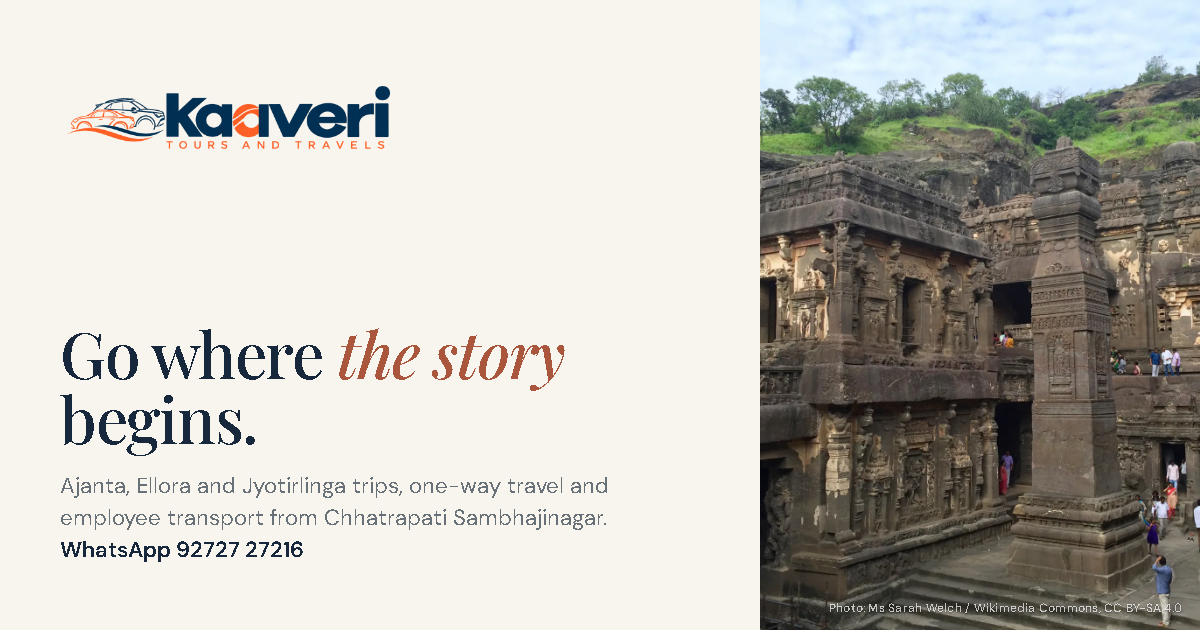
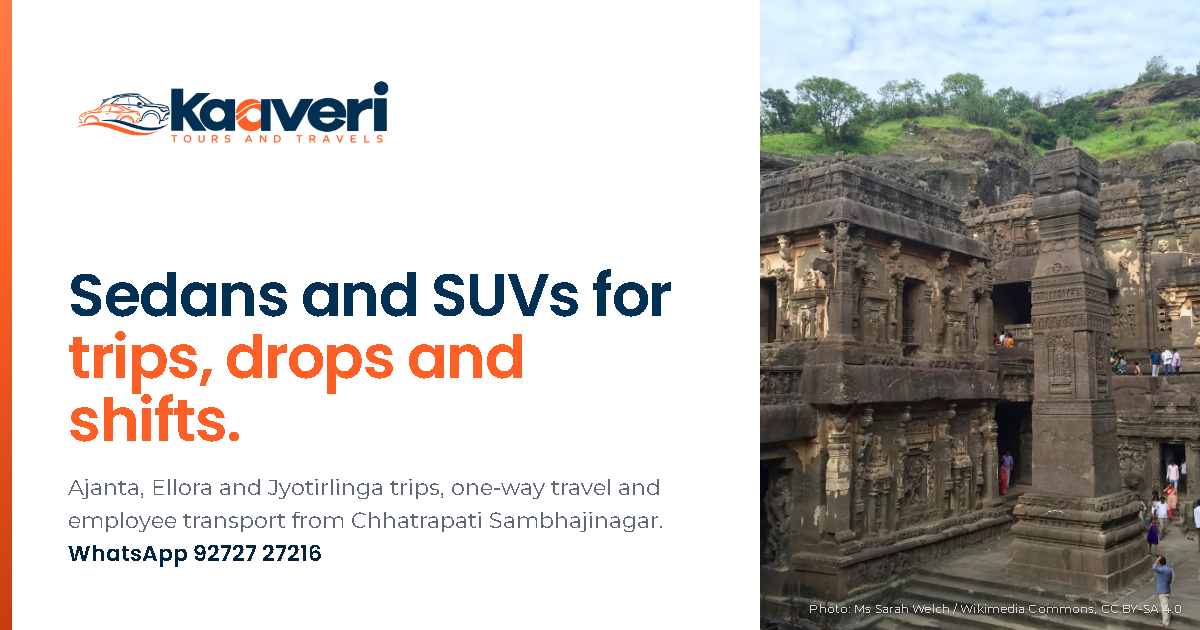
Make white button labels meet contrast and refresh the share image
- Orange fills behind white text now run #d4440f to #9c300a (4.5:1 or
  better); the bright logo orange stays for headings, icons and lines
- WhatsApp buttons use WhatsApp's darker greens behind white labels;
  #25d366 stays for the glyph on dark grounds
- Replace the link preview image with the brand kit version

diff --git a/src/app/globals.css b/src/app/globals.css
@@ -54,11 +54,12 @@
   --black:#07090c;
 
   /* ---- WhatsApp brand (only for WhatsApp actions) ---- */
+  /* #25d366 is the WhatsApp glyph colour on dark grounds; white text sits only on 600 to 800 (4.5:1 or better). */
   --wa-500:#25d366;
-  --wa-600:#1ebe5a;
-  --wa-700:#128c7e;
+  --wa-600:#15884a;
+  --wa-700:#0e7c4a;
   --wa-800:#075e54;
-  --grad-whatsapp:linear-gradient(120deg,var(--wa-500) 0%,var(--wa-600) 40%,var(--wa-700) 82%,var(--wa-500) 100%);
+  --grad-whatsapp:linear-gradient(120deg,var(--wa-600) 0%,var(--wa-700) 45%,var(--wa-800) 85%,var(--wa-700) 100%);
   --shadow-wa:0 14px 30px -12px color-mix(in srgb,var(--wa-700) 62%,transparent);
 
   /* ---- Semantic ---- */
@@ -82,7 +83,9 @@
   --glass-line:color-mix(in srgb,var(--white) 16%,transparent);
 
   /* ---- Gradients ---- */
-  --grad-primary:linear-gradient(120deg,var(--orange-400) 0%,var(--orange-500) 38%,var(--orange-700) 78%,var(--orange-500) 100%);
+  /* Fill for anything carrying white text: every stop is 4.5:1 or better against white. The bright logo orange is for headings, icons and lines. */
+  --orange-650:#d4440f;
+  --grad-primary:linear-gradient(120deg,var(--orange-650) 0%,var(--orange-700) 45%,var(--orange-800) 85%,var(--orange-700) 100%);
   --grad-navy:linear-gradient(120deg,var(--navy-500) 0%,var(--navy-700) 42%,var(--navy-900) 82%,var(--navy-600) 100%);
   --grad-accent-text:linear-gradient(100deg,var(--orange-500),var(--orange-700));
   --grad-accent-text-dark:linear-gradient(100deg,var(--orange-300),var(--orange-400));
